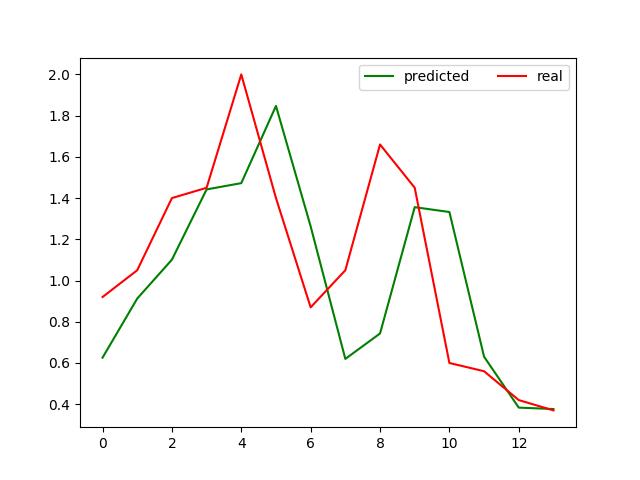
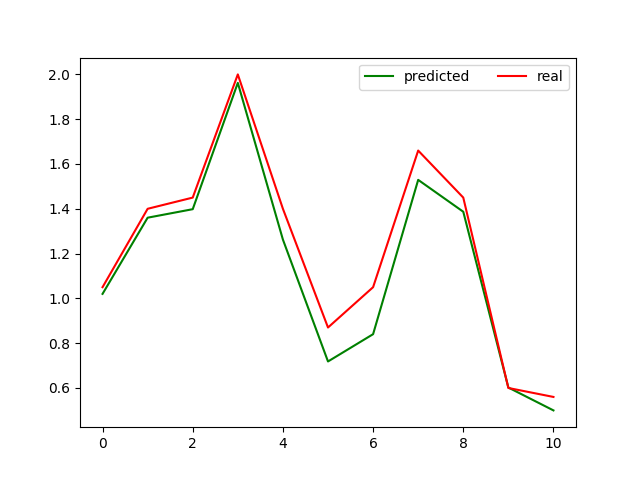
看看

diff --git a/LSTM.py b/LSTM.py
@@ -29,7 +29,7 @@ def lstm_model(X,y):
     output=output[-1]
     prediction,loss=learn.models.linear_regression(output, y)
 
-    train_op = tf.contrib.layers.optimize_loss(loss, tf.contrib.framework.get_global_step(), optimizer="Adagrad", learning_rate=0.1)
+    train_op = tf.contrib.layers.optimize_loss(loss, tf.contrib.framework.get_global_step(), optimizer="Adagrad", learning_rate=0.0036)
     return prediction, loss, train_op
 regressor = learn.Estimator(model_fn=lstm_model)
 
@@ -51,24 +51,24 @@ for t in time:
 
 train_X, train_y = generate_data(width[:6274])
 
-test_X, test_y = generate_data(width[6273:])
-test_X2, test_y2 = generate_data(width[6274:])
+test_X, test_y = generate_data(width[6275:6292])
+test_X2, test_y2 = generate_data(width[6274:6291])
 
 regressor.fit(train_X, train_y, batch_size=BATCH_SIZE, steps=TRAINING_STEPS)
 
 predicted = [[pred] for pred in regressor.predict(test_X)]
 
-rmse=np.sqrt(((predicted[1:]-test_y2) ** 2).mean(axis=0))
-re=(np.abs(predicted[1:]-test_y2)).mean(axis=0)
+rmse=np.sqrt(((predicted-test_y2) ** 2).mean(axis=0))
+re=(np.abs(predicted-test_y2)).mean(axis=0)
 print ('Mean Square Error is: %f' % rmse[0])
 print ('relative error is : %f' %re)
-print(predicted[:])
-print(test_y2[:])
+print(predicted)
+print(test_y2)
 
 fig=plt.figure()
 label=['predicted','real']
 plt.plot(predicted,'g')
-plt.plot(test_y,'r')
+plt.plot(test_y2,'r')
 plt.legend(label,loc=0,ncol=2)
 #plt.legend([plot_predicted, plot_test], ['predicted', 'real_sin'])
 
